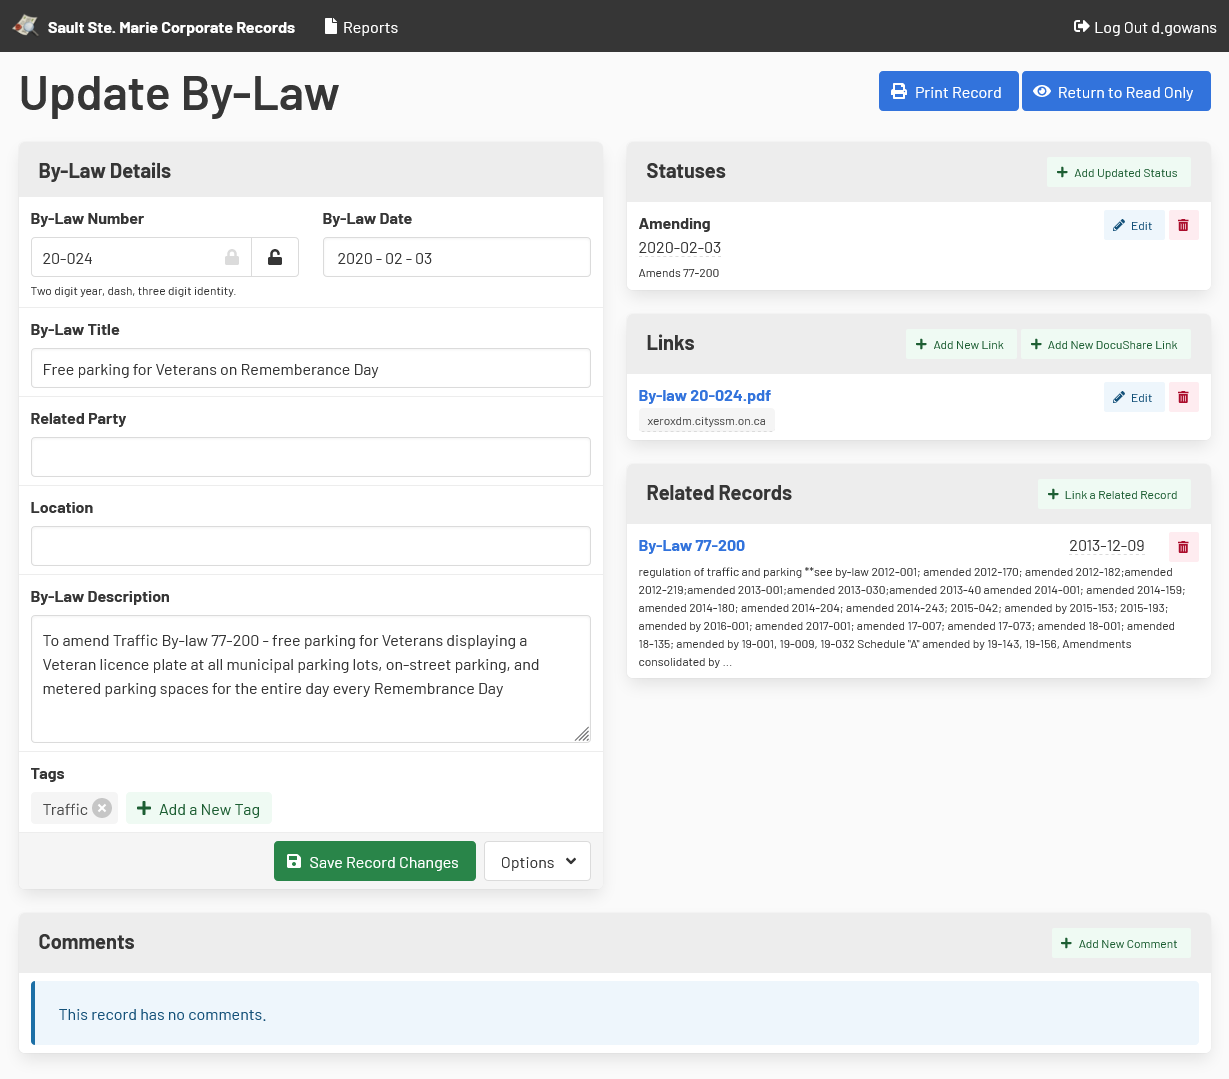
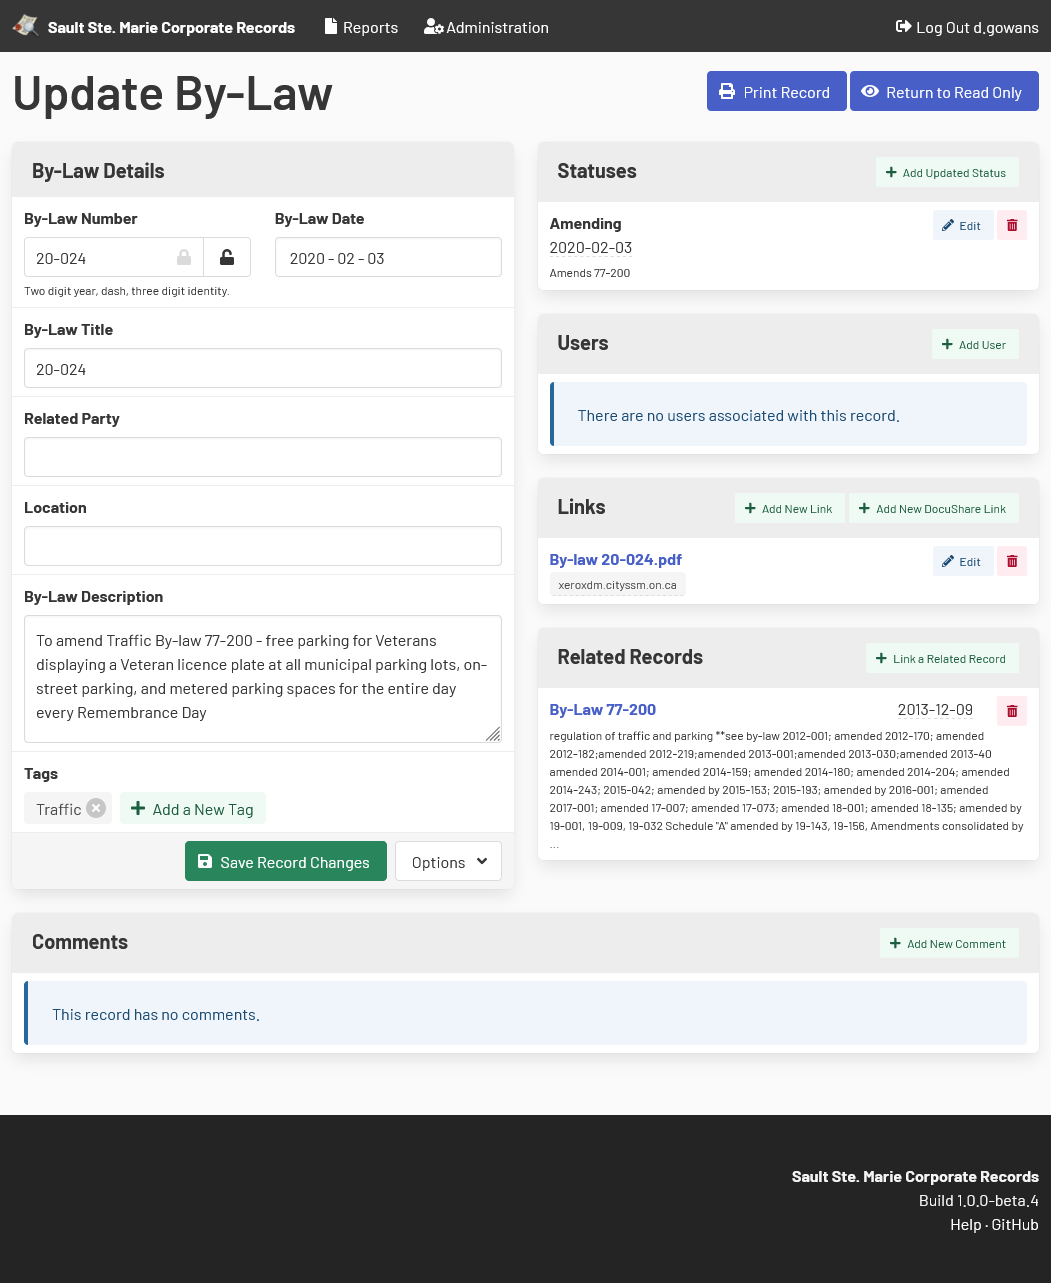
documentation

diff --git a/docs/createUpdate.md b/docs/createUpdate.md
@@ -20,7 +20,21 @@ When creating a new record, not all of the options will be available until the r
 
 ## Statuses
 
+## Users
+
+Users can be linked to a record to associate them with the record.
+This can help track the users who are responsible for the record,
+or may need to be notified if a record changes, for example.
+
+Users don't need login access to the application to be associated with records,
+but linking users in this way can affect what those users can see.
+When used alongside the "Can View All" permission, users can be limited to
+only see those records they are associated with.
+
 ## Links
+
+Records can be linked to webpages.
+When DocuShare integrations are enabled, options to search DocuShare collections are available.
 
 ## Related Records
 
